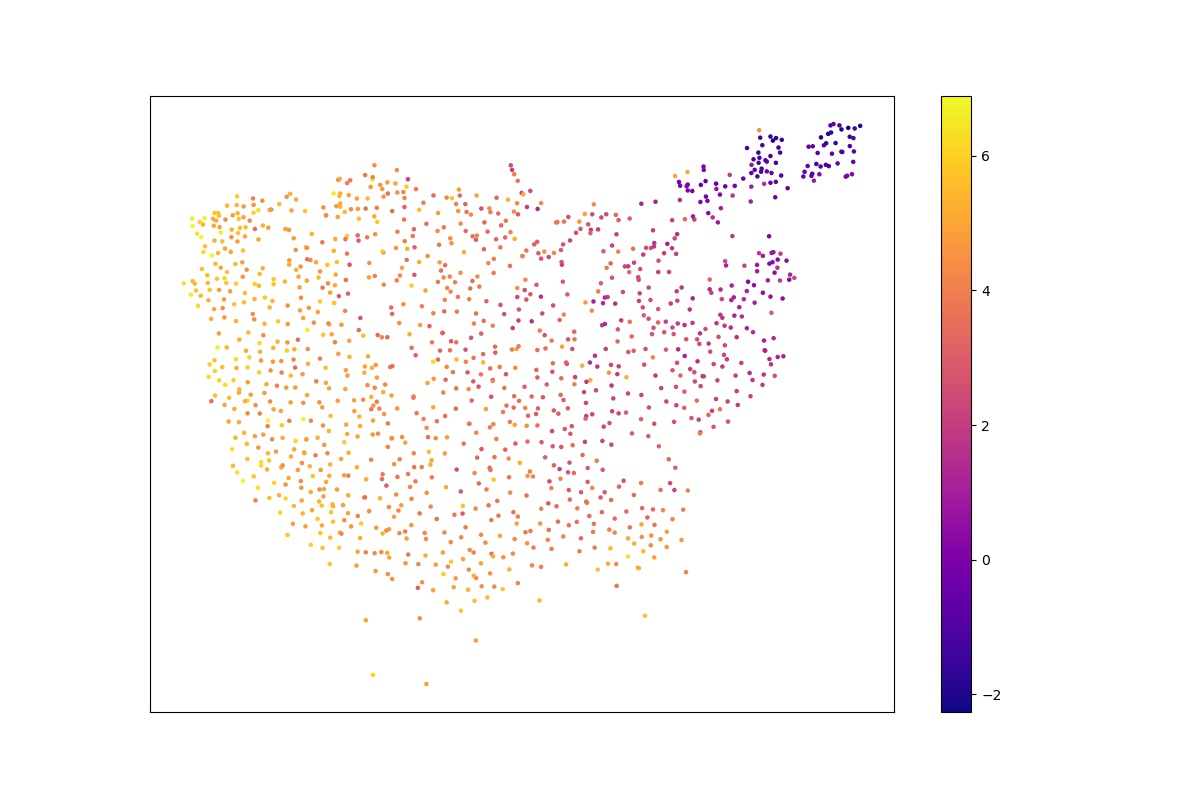
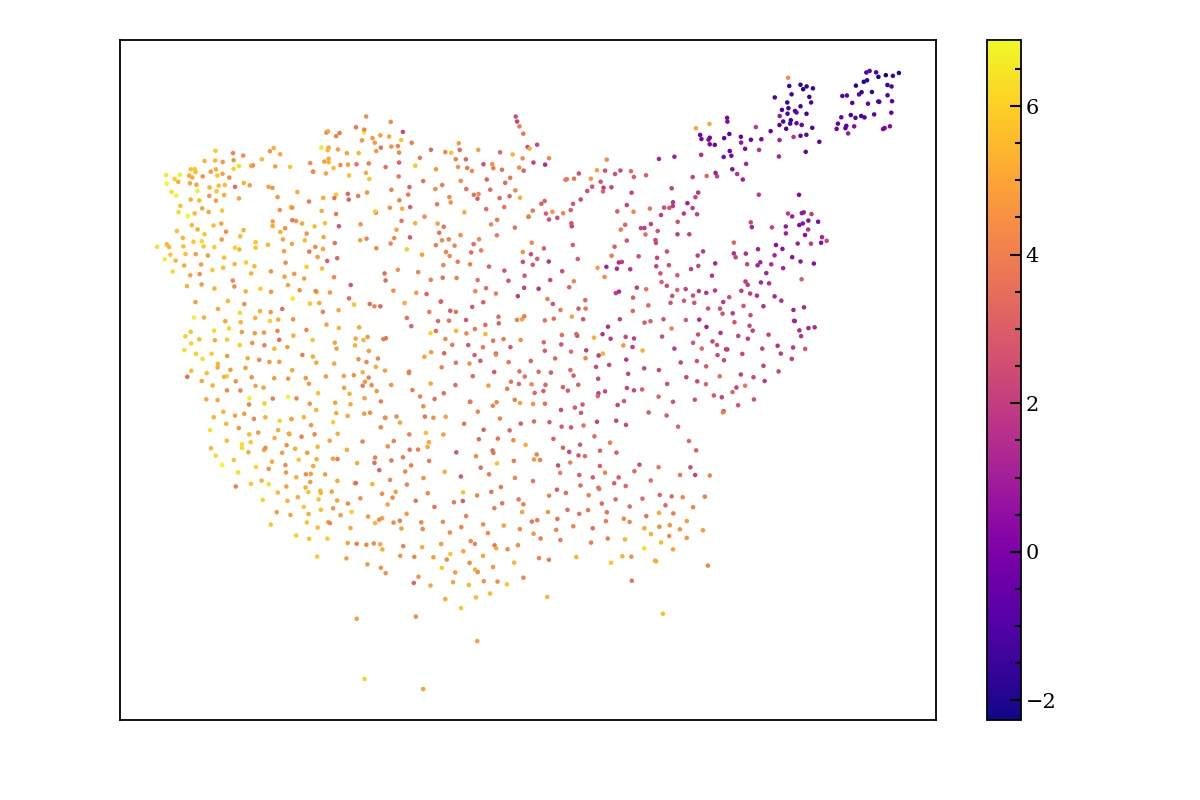
minor changes in plotting

Changed region(s): [[0.1233, 0.0938, 0.74, 0.75], [0.0925, 0.0312, 0.8633, 0.9062]]

diff --git a/plotting.py b/plotting.py
@@ -7,15 +7,14 @@ grbnames = embedding[:,0]
 emb = embedding[:,1:].astype(float)
 
 fig, ax = plt.subplots(figsize = conf['figsize'])
+ax.set(yticks = (), xticks = (),title='Embedding')
 
 emb_plot = ax.scatter(emb[:, 0], emb[:, 1], s=conf['radius'], c=conf['color'], cmap=conf['cmap'])
-ax.set(xticks=[], yticks=[])
-
+# highlights = ax.scatter[grbnames]
 
 cbar = plt.colorbar(emb_plot,None,ax)
 
-ax.set(yticks = (), xticks = ())
 
-fig.savefig("FlotPlot.jpg")
+
 fig.show()
 

diff --git a/config.py b/config.py
@@ -10,10 +10,11 @@ conf = {
     'radius': 5,
     'color': np.log(duration_data.loc[grbnames].T90),
     'cmap': 'plasma',
+    'grb_highlight': ['GRB191019A']
 }
 
 tsne_params = {
-    'perplexity':  35
-    'verbose':      2
-    'n_iter':   15000
+    'perplexity':  35,
+    'verbose':      2,
+    'n_iter':   15000,
 }
